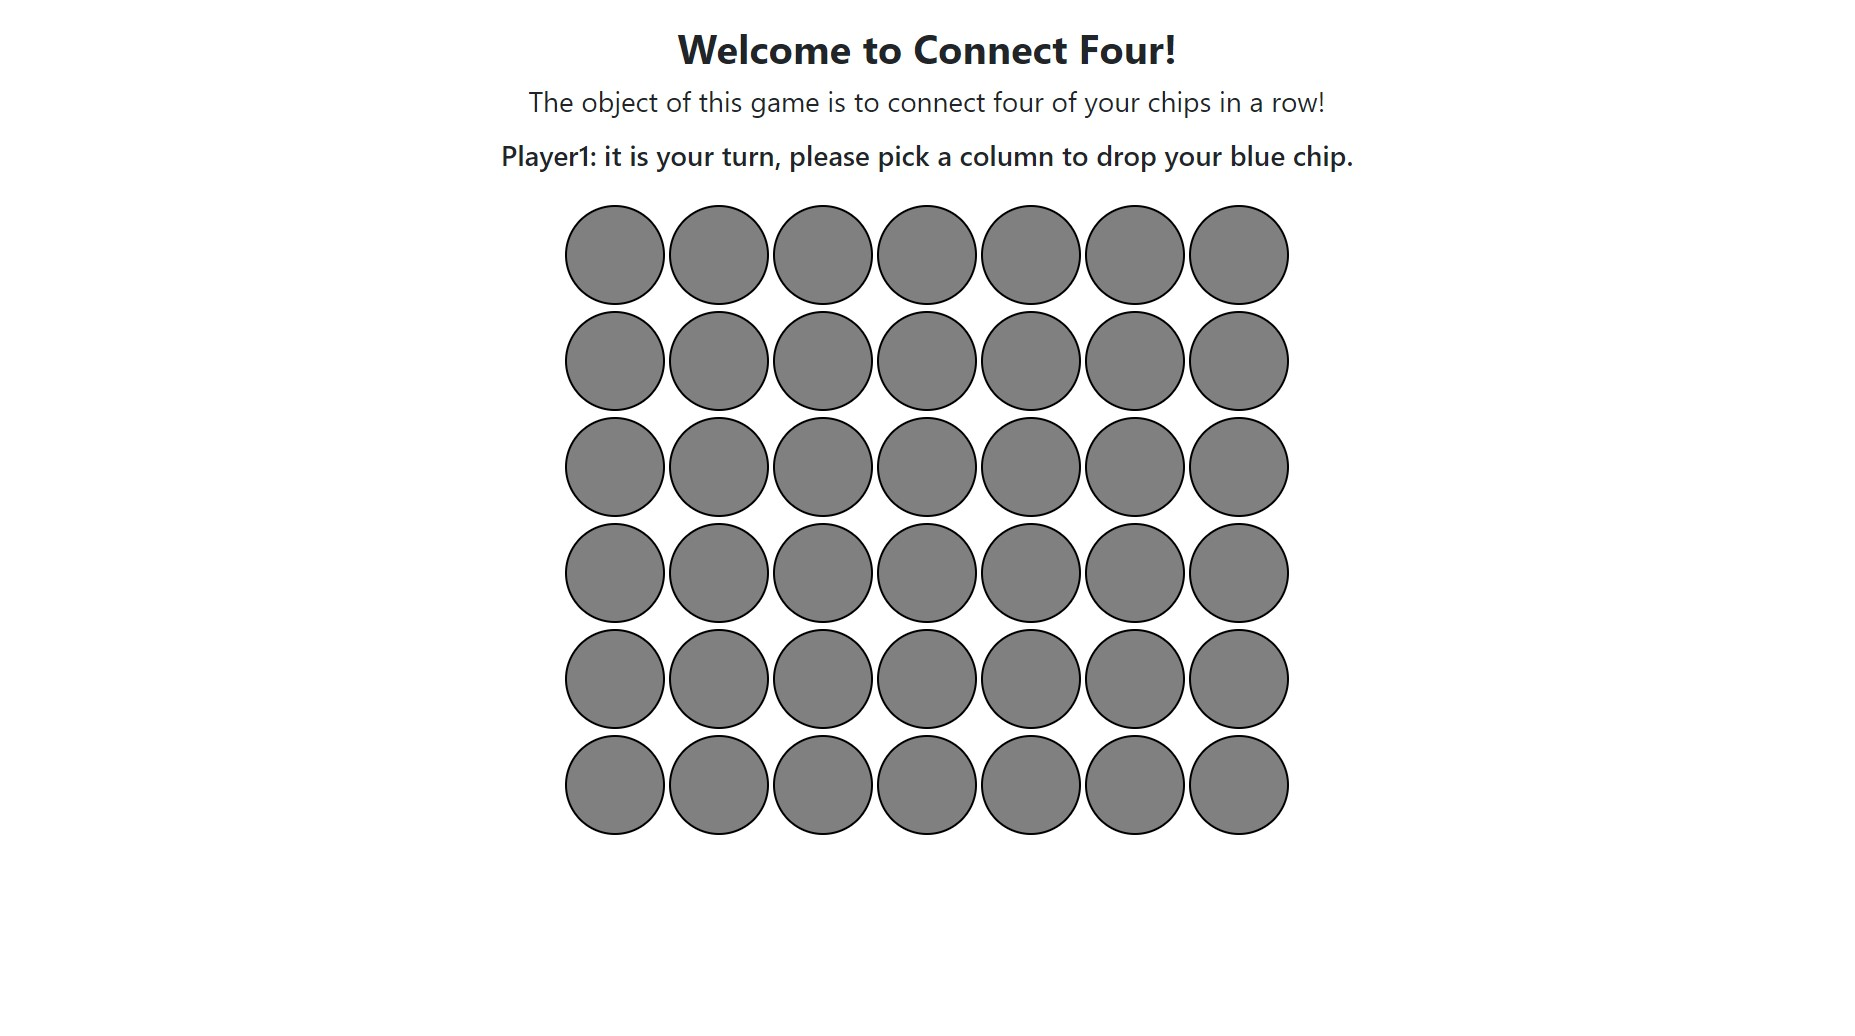
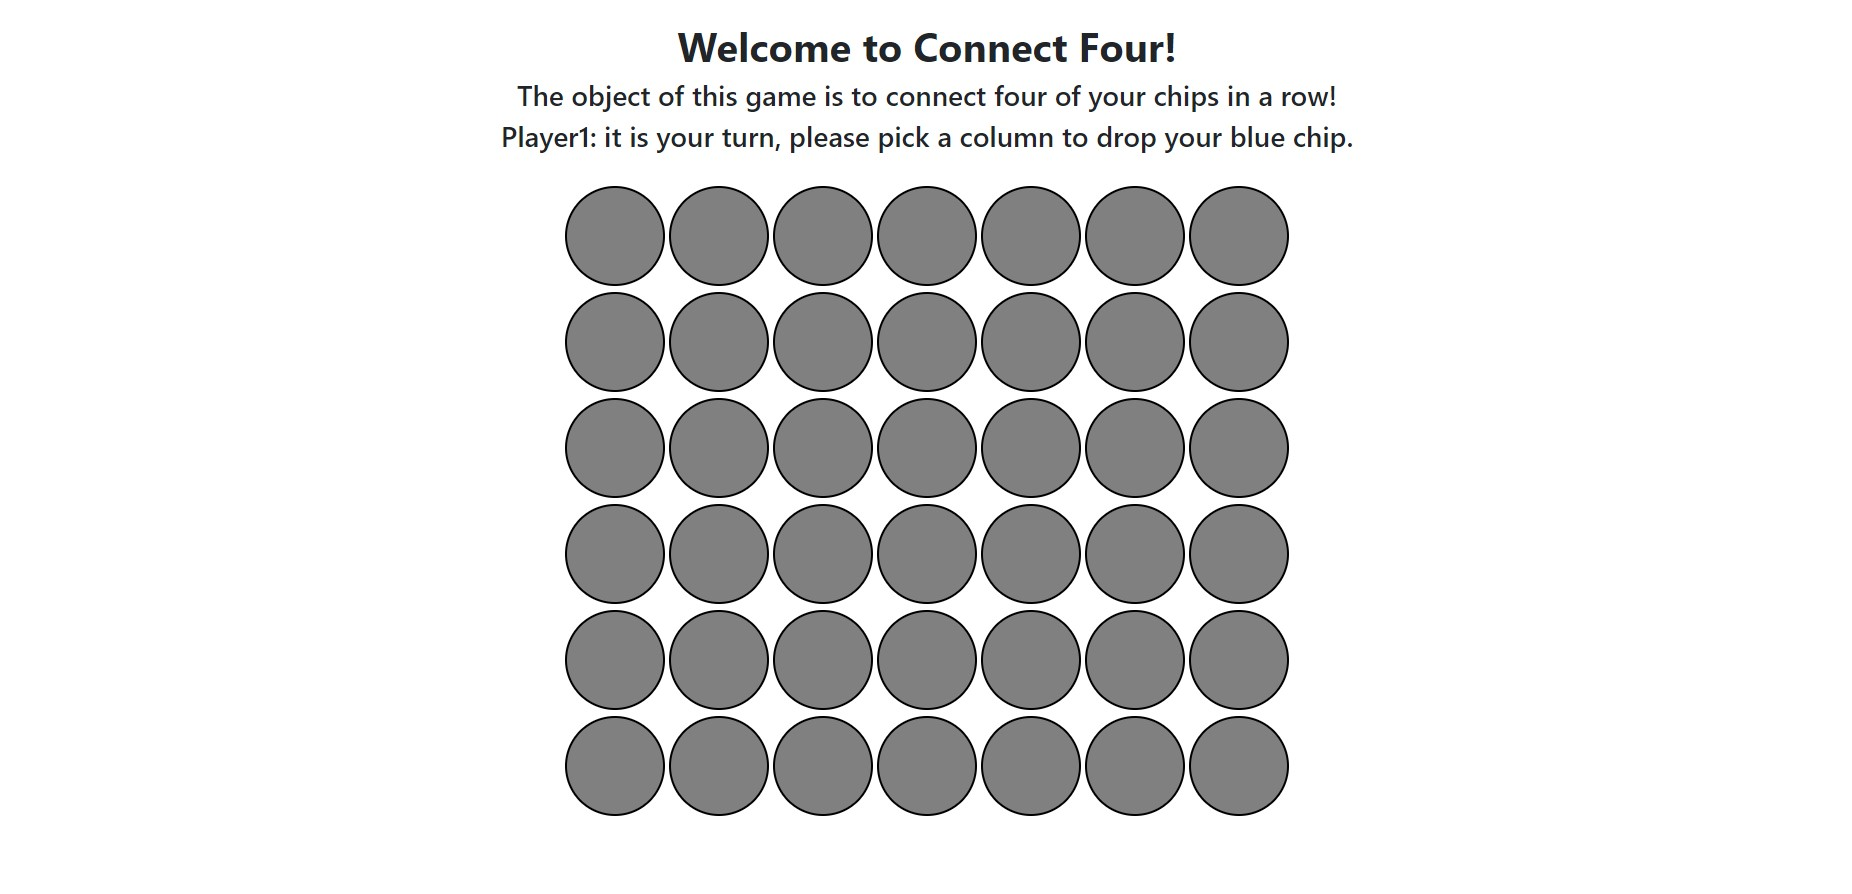
JQuery + Game

Changed region(s): [[0.277, 0.0302, 0.7387, 0.9362]]

diff --git a/Full Stack Web Developer Bootcamp/JQUERY/connect4.html b/Full Stack Web Developer Bootcamp/JQUERY/connect4.html
@@ -11,7 +11,7 @@
     <br>
     <div class="container" align="center">
       <h1 class="fw-bold">Welcome to Connect Four!</h1>
-      <p class="fs-3">The object of this game is to connect four of your chips in a row!</p>
+      <h2 class="fs-3">The object of this game is to connect four of your chips in a row!</h2>
       <h3></h3>
       <br>
       <table class="board">
